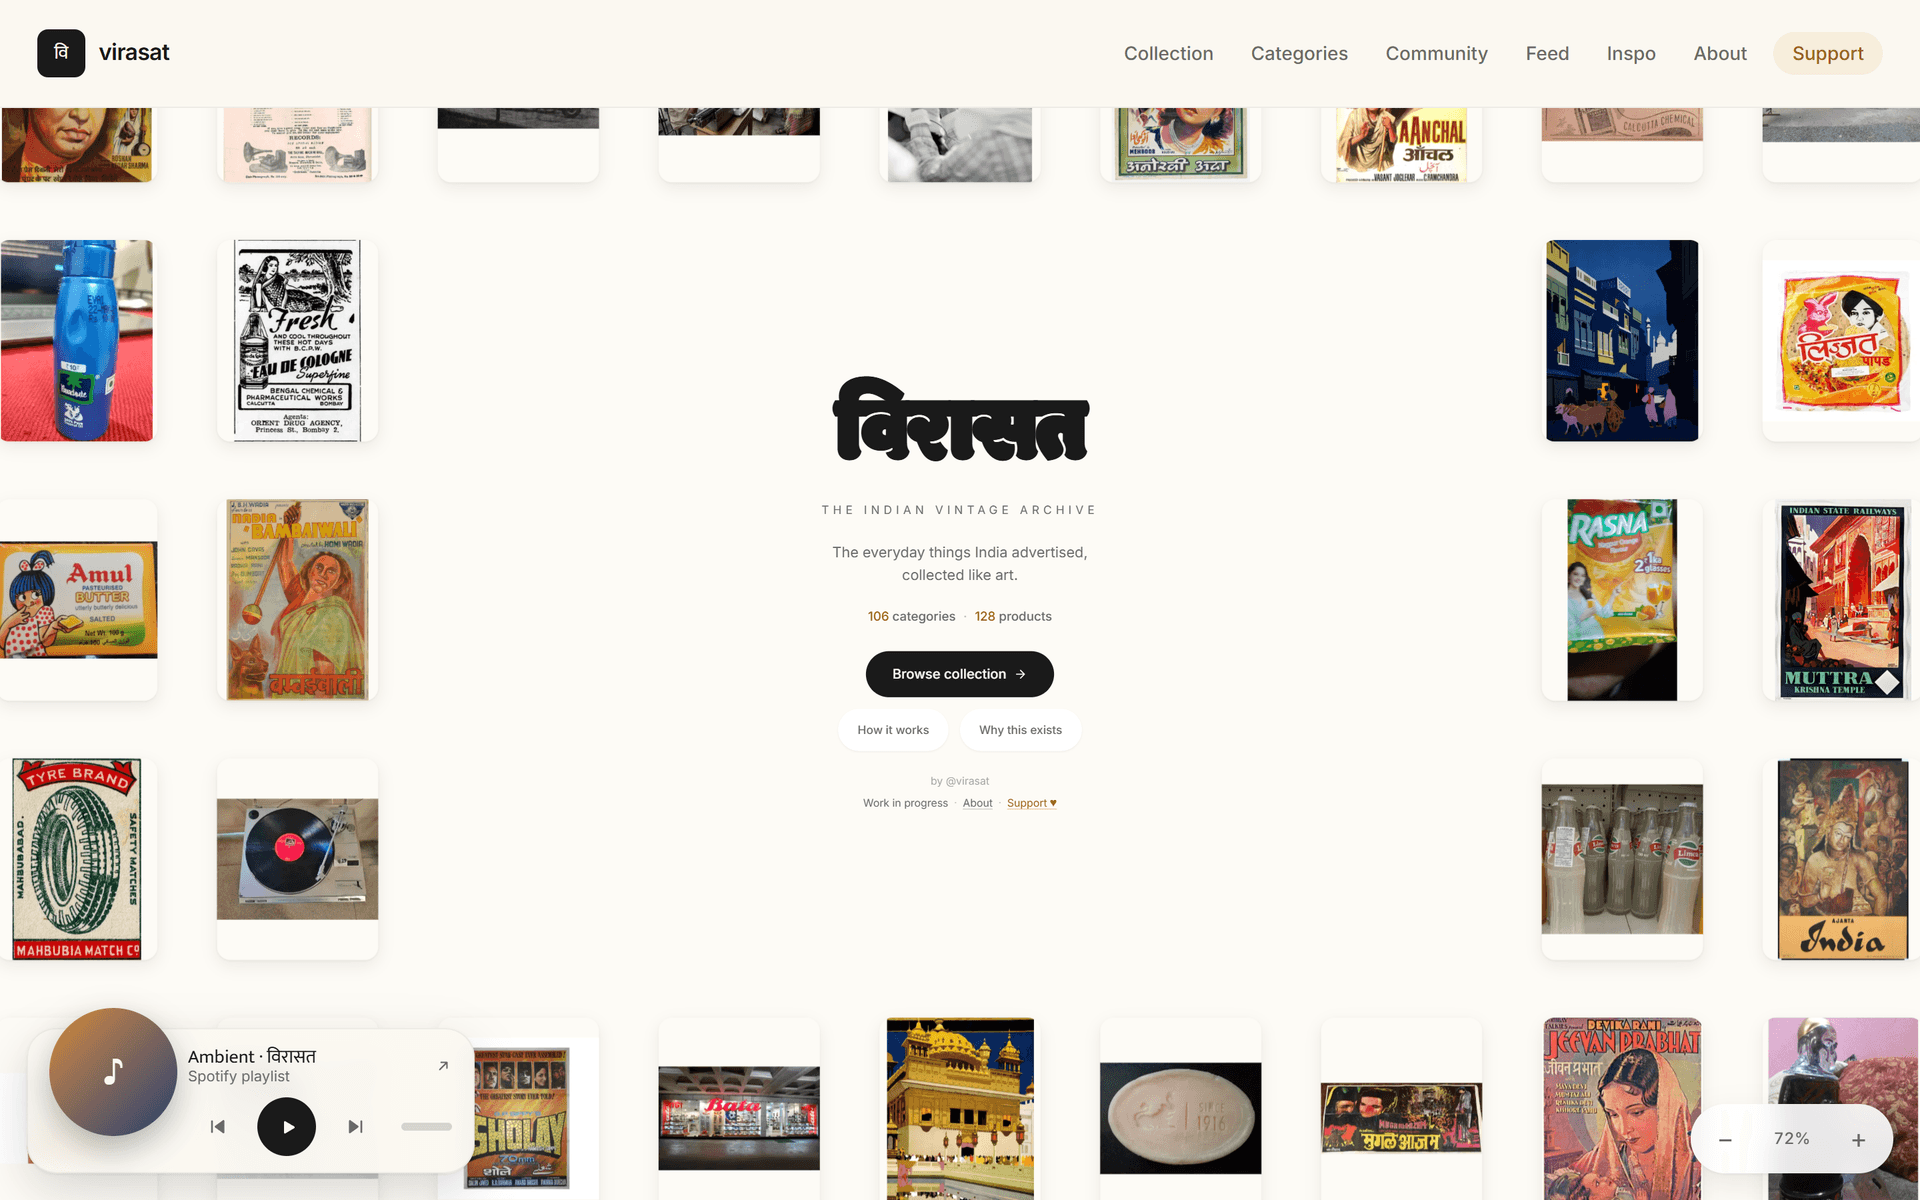
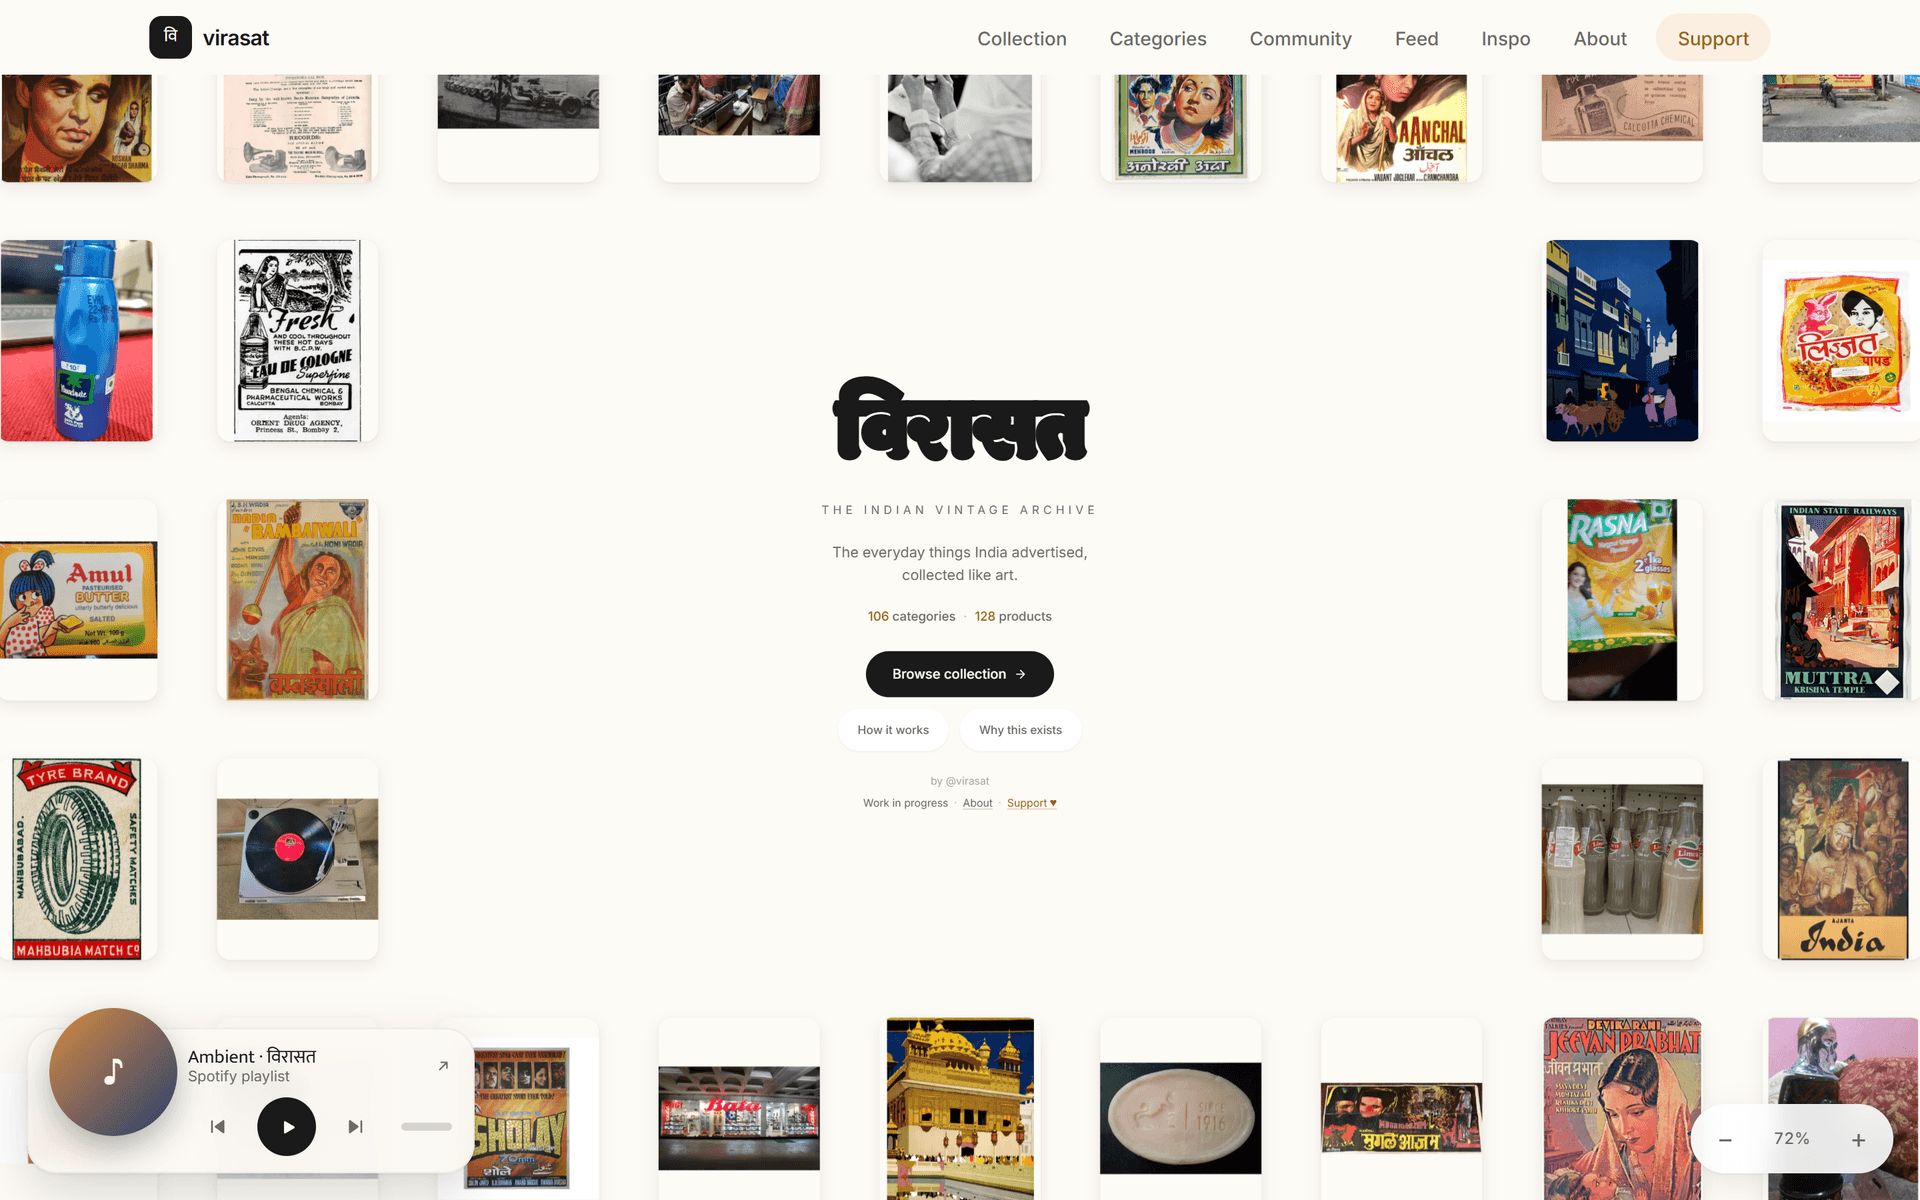
Top nav changed to make asthetic

diff --git a/src/components/nav/TopNav.tsx b/src/components/nav/TopNav.tsx
@@ -63,117 +63,118 @@ export function TopNav() {
   return (
     <nav
       aria-label="Main"
-      // Solid paper background so the links stay readable over the canvas
-      // and page content. Deliberately no backdrop-filter: a blur would be
-      // recomputed every frame while the canvas pans underneath.
-      className="fixed inset-x-0 top-0 z-40 flex items-center justify-between border-b border-black/5 bg-bg px-4 py-2.5 sm:px-7 sm:py-3.5"
+      // Compact solid bar in the same colour as the page beneath it (canvas
+      // tone on the home page, paper elsewhere), so it reads as part of the
+      // page rather than a band across it. Deliberately no backdrop-filter: a
+      // blur would be recomputed every frame while the canvas pans underneath.
+      className={`fixed inset-x-0 top-0 z-40 ${pathname === "/" ? "bg-canvas" : "bg-bg"}`}
     >
-      <Link
-        href="/"
-        className="flex items-center gap-2.5 rounded-full py-2 pr-2"
-      >
-        <span className="flex h-9 w-9 items-center justify-center rounded-lg bg-ink font-display text-sm text-bg">
-          {config.logoGlyph}
-        </span>
-        <span className="text-[17px] font-semibold tracking-tight text-ink">
-          {config.brand}
-        </span>
-      </Link>
-
-      {/* Desktop links */}
-      <div className="hidden items-center gap-1 text-sm font-medium text-ink-2 md:flex">
-        {LINKS.map((l) => {
-          const active = pathname === l.href;
-          return (
-            <Link
-              key={l.href}
-              href={l.href}
-              aria-current={active ? "page" : undefined}
-              className={`flex min-h-11 items-center rounded-full px-2 transition-colors hover:text-ink lg:px-3 ${
-                active ? "text-ink" : ""
-              }`}
-            >
-              {l.label}
-            </Link>
-          );
-        })}
-        {/* 44px-tall hit area around a smaller visual pill. */}
-        <Link
-          href={SUPPORT.href}
-          aria-current={pathname === SUPPORT.href ? "page" : undefined}
-          className="group ml-1 flex min-h-11 items-center rounded-full"
-        >
-          <span className="rounded-full bg-accent/10 px-3.5 py-1.5 text-accent-ink transition-colors group-hover:bg-accent/20">
-            {SUPPORT.label}
+      <div className="mx-auto flex h-14 max-w-7xl items-center justify-between px-4 sm:px-8">
+        <Link href="/" className="flex items-center gap-2 rounded-full py-1.5 pr-2">
+          <span className="flex h-8 w-8 items-center justify-center rounded-[9px] bg-ink font-display text-[13px] text-bg">
+            {config.logoGlyph}
+          </span>
+          <span className="text-base font-semibold tracking-tight text-ink">
+            {config.brand}
           </span>
         </Link>
-      </div>
 
-      {/* Mobile menu button + sheet */}
-      <div className="md:hidden">
-        <button
-          ref={toggleRef}
-          type="button"
-          aria-expanded={open}
-          aria-controls="mobile-nav"
-          aria-label={open ? "Close menu" : "Open menu"}
-          onClick={() => setOpen((v) => !v)}
-          className="flex h-11 w-11 items-center justify-center rounded-full bg-white/90 text-ink shadow-[0_1px_2px_rgba(0,0,0,.05),0_6px_18px_rgba(0,0,0,.08)] backdrop-blur transition-colors hover:bg-white"
-        >
-          <svg
-            width="18"
-            height="18"
-            viewBox="0 0 24 24"
-            fill="none"
-            stroke="currentColor"
-            strokeWidth="2"
-            strokeLinecap="round"
-            aria-hidden
+        {/* Desktop links */}
+        <div className="hidden items-center gap-1 text-[14px] font-medium text-ink-2 md:flex">
+          {LINKS.map((l) => {
+            const active = pathname === l.href;
+            return (
+              <Link
+                key={l.href}
+                href={l.href}
+                aria-current={active ? "page" : undefined}
+                className={`flex h-9 items-center rounded-full px-3 transition-colors lg:px-3.5 ${
+                  active ? "bg-ink text-bg" : "hover:bg-black/[.04] hover:text-ink"
+                }`}
+              >
+                {l.label}
+              </Link>
+            );
+          })}
+          <Link
+            href={SUPPORT.href}
+            aria-current={pathname === SUPPORT.href ? "page" : undefined}
+            className={`ml-1 flex h-9 items-center rounded-full px-4 transition-colors ${
+              pathname === SUPPORT.href
+                ? "bg-accent-ink text-bg"
+                : "bg-accent/10 text-accent-ink hover:bg-accent/20"
+            }`}
           >
-            {open ? (
-              <path d="M18 6 6 18M6 6l12 12" />
-            ) : (
-              <path d="M3 6h18M3 12h18M3 18h18" />
-            )}
-          </svg>
-        </button>
+            {SUPPORT.label}
+          </Link>
+        </div>
 
-        {open && (
-          <div
-            ref={panelRef}
-            id="mobile-nav"
-            className="absolute right-4 top-[calc(100%-0.25rem)] flex w-52 flex-col gap-0.5 rounded-2xl border border-black/5 bg-bg/97 p-2 shadow-[0_1px_2px_rgba(0,0,0,.05),0_18px_44px_rgba(0,0,0,.16)] backdrop-blur"
+        {/* Mobile menu button + sheet */}
+        <div className="md:hidden">
+          <button
+            ref={toggleRef}
+            type="button"
+            aria-expanded={open}
+            aria-controls="mobile-nav"
+            aria-label={open ? "Close menu" : "Open menu"}
+            onClick={() => setOpen((v) => !v)}
+            className="-mr-2 flex h-11 w-11 items-center justify-center rounded-full text-ink transition-colors hover:bg-black/5"
           >
-            {LINKS.map((l) => {
-              const active = pathname === l.href;
-              return (
-                <Link
-                  key={l.href}
-                  href={l.href}
-                  // Dismiss on tap: the sheet would otherwise stay open over
-                  // the page it just navigated to.
-                  onClick={() => setOpen(false)}
-                  aria-current={active ? "page" : undefined}
-                  className={`flex min-h-11 items-center rounded-xl px-3.5 text-[15px] font-medium transition-colors ${
-                    active
-                      ? "bg-accent/10 text-accent-ink"
-                      : "text-ink hover:bg-black/4"
-                  }`}
-                >
-                  {l.label}
-                </Link>
-              );
-            })}
-            <Link
-              href={SUPPORT.href}
-              onClick={() => setOpen(false)}
-              aria-current={pathname === SUPPORT.href ? "page" : undefined}
-              className="mt-1 flex min-h-11 items-center rounded-xl bg-accent/10 px-3.5 text-[15px] font-medium text-accent-ink transition-colors hover:bg-accent/20"
+            <svg
+              width="18"
+              height="18"
+              viewBox="0 0 24 24"
+              fill="none"
+              stroke="currentColor"
+              strokeWidth="2"
+              strokeLinecap="round"
+              aria-hidden
             >
-              {SUPPORT.label}
-            </Link>
-          </div>
-        )}
+              {open ? (
+                <path d="M18 6 6 18M6 6l12 12" />
+              ) : (
+                <path d="M3 6h18M3 12h18M3 18h18" />
+              )}
+            </svg>
+          </button>
+
+          {open && (
+            <div
+              ref={panelRef}
+              id="mobile-nav"
+              className="absolute right-4 top-[calc(100%-0.25rem)] flex w-52 flex-col gap-0.5 rounded-2xl border border-black/5 bg-bg/97 p-2 shadow-[0_1px_2px_rgba(0,0,0,.05),0_18px_44px_rgba(0,0,0,.16)] backdrop-blur"
+            >
+              {LINKS.map((l) => {
+                const active = pathname === l.href;
+                return (
+                  <Link
+                    key={l.href}
+                    href={l.href}
+                    // Dismiss on tap: the sheet would otherwise stay open over
+                    // the page it just navigated to.
+                    onClick={() => setOpen(false)}
+                    aria-current={active ? "page" : undefined}
+                    className={`flex min-h-11 items-center rounded-xl px-3.5 text-[15px] font-medium transition-colors ${
+                      active
+                        ? "bg-accent/10 text-accent-ink"
+                        : "text-ink hover:bg-black/4"
+                    }`}
+                  >
+                    {l.label}
+                  </Link>
+                );
+              })}
+              <Link
+                href={SUPPORT.href}
+                onClick={() => setOpen(false)}
+                aria-current={pathname === SUPPORT.href ? "page" : undefined}
+                className="mt-1 flex min-h-11 items-center rounded-xl bg-accent/10 px-3.5 text-[15px] font-medium text-accent-ink transition-colors hover:bg-accent/20"
+              >
+                {SUPPORT.label}
+              </Link>
+            </div>
+          )}
+        </div>
       </div>
     </nav>
   );
